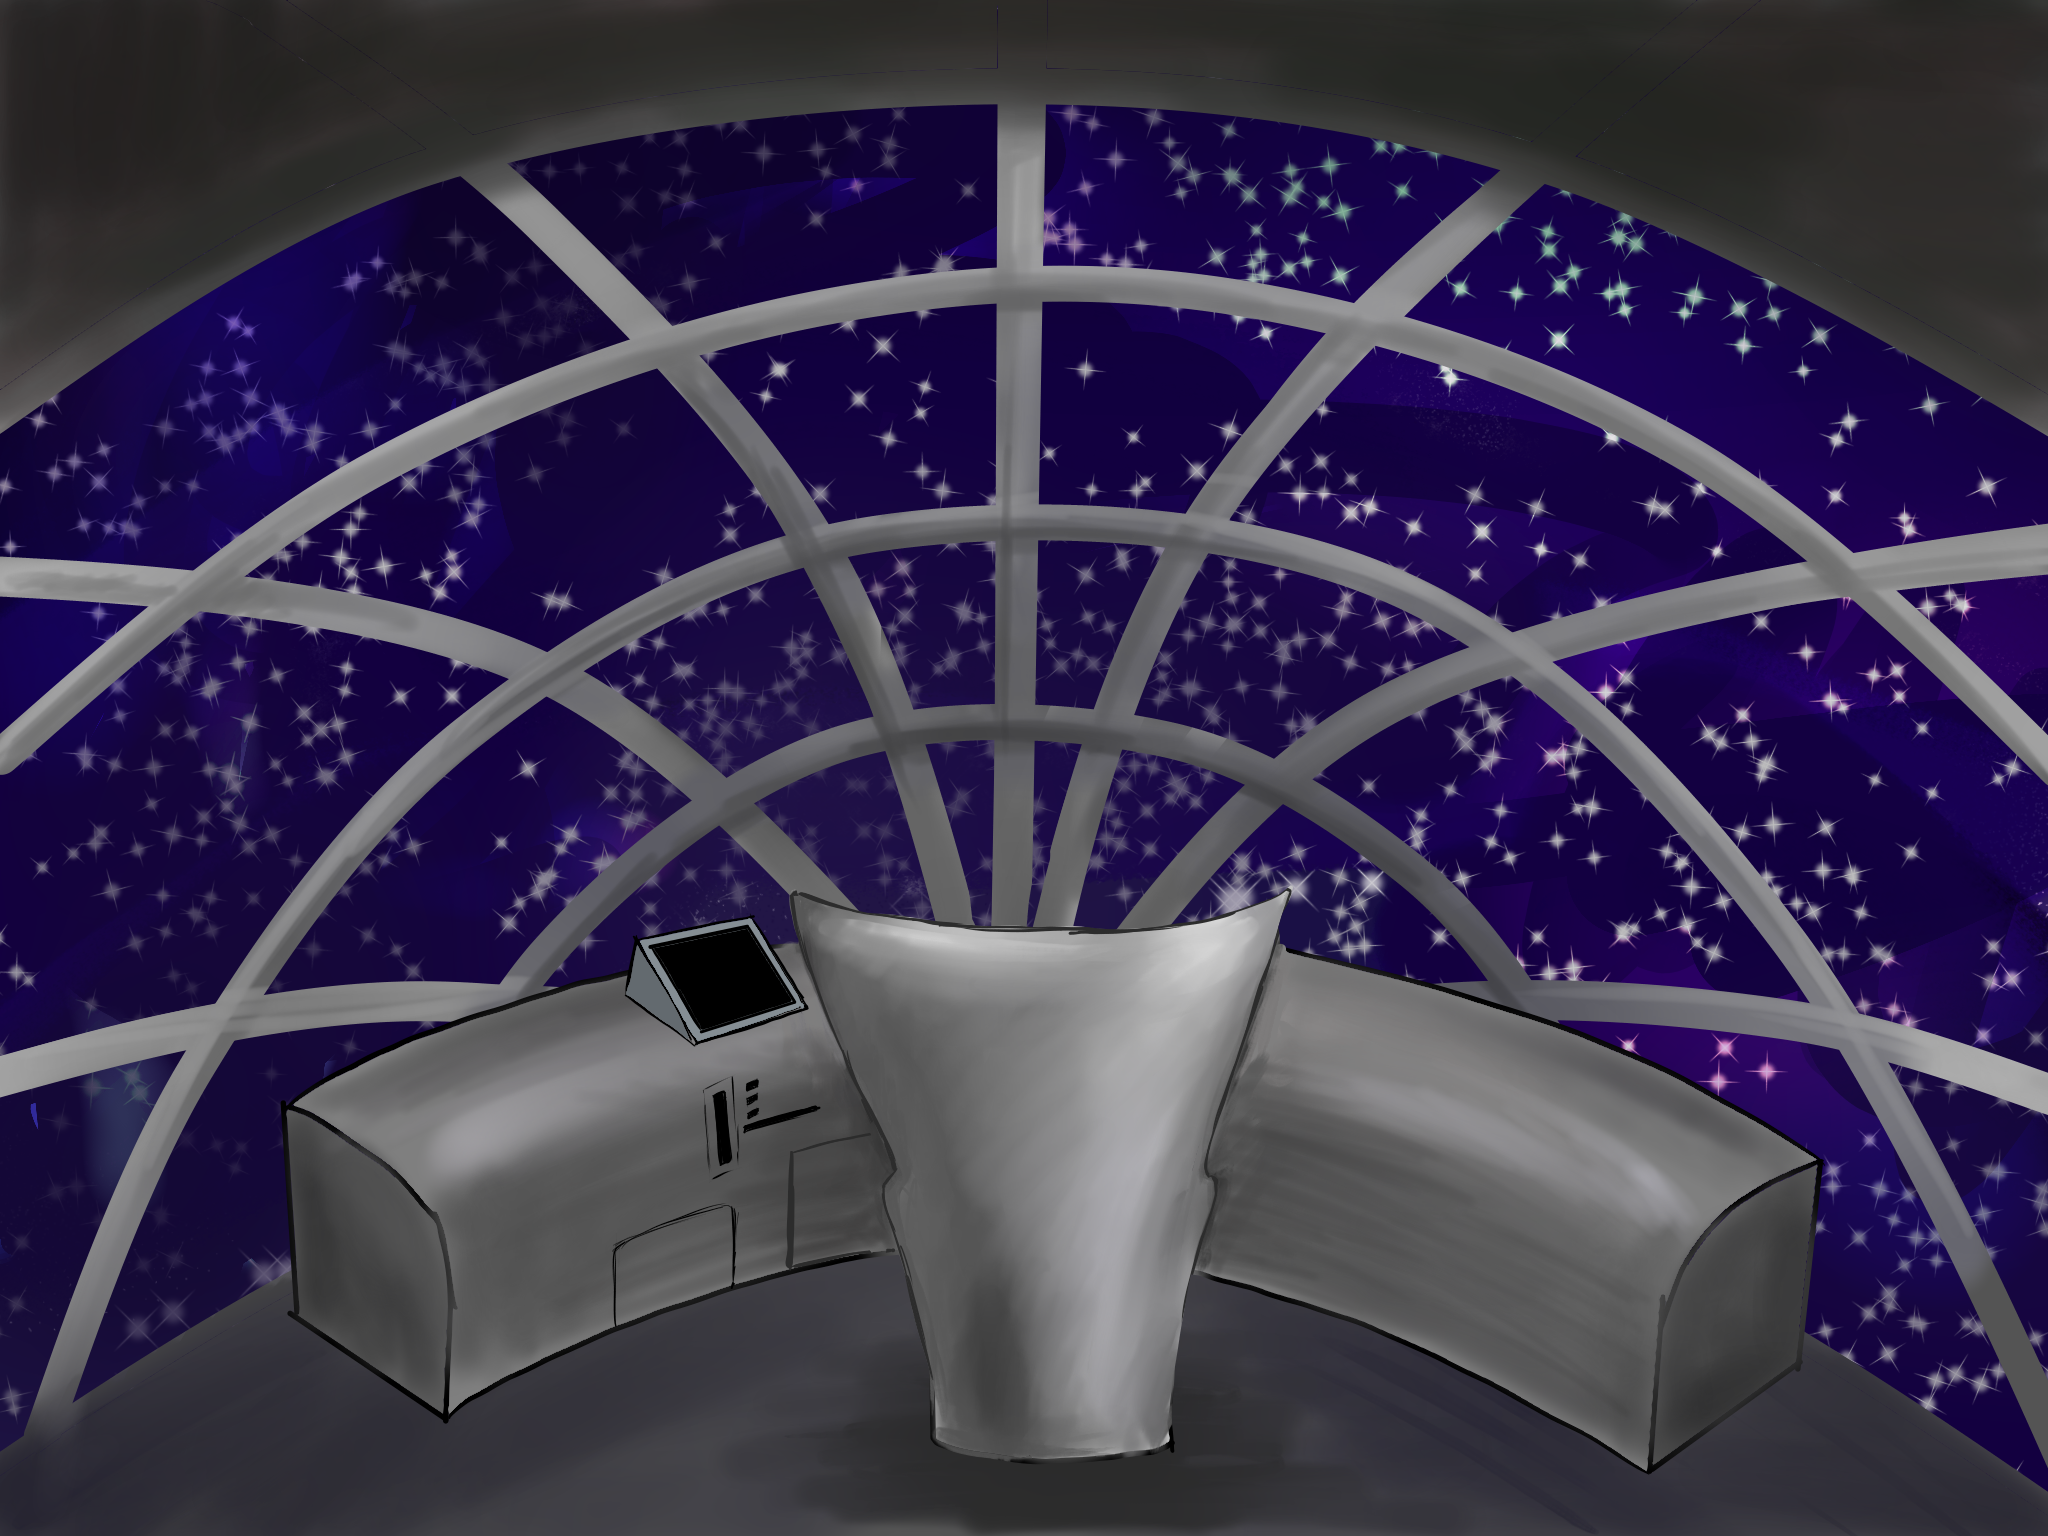
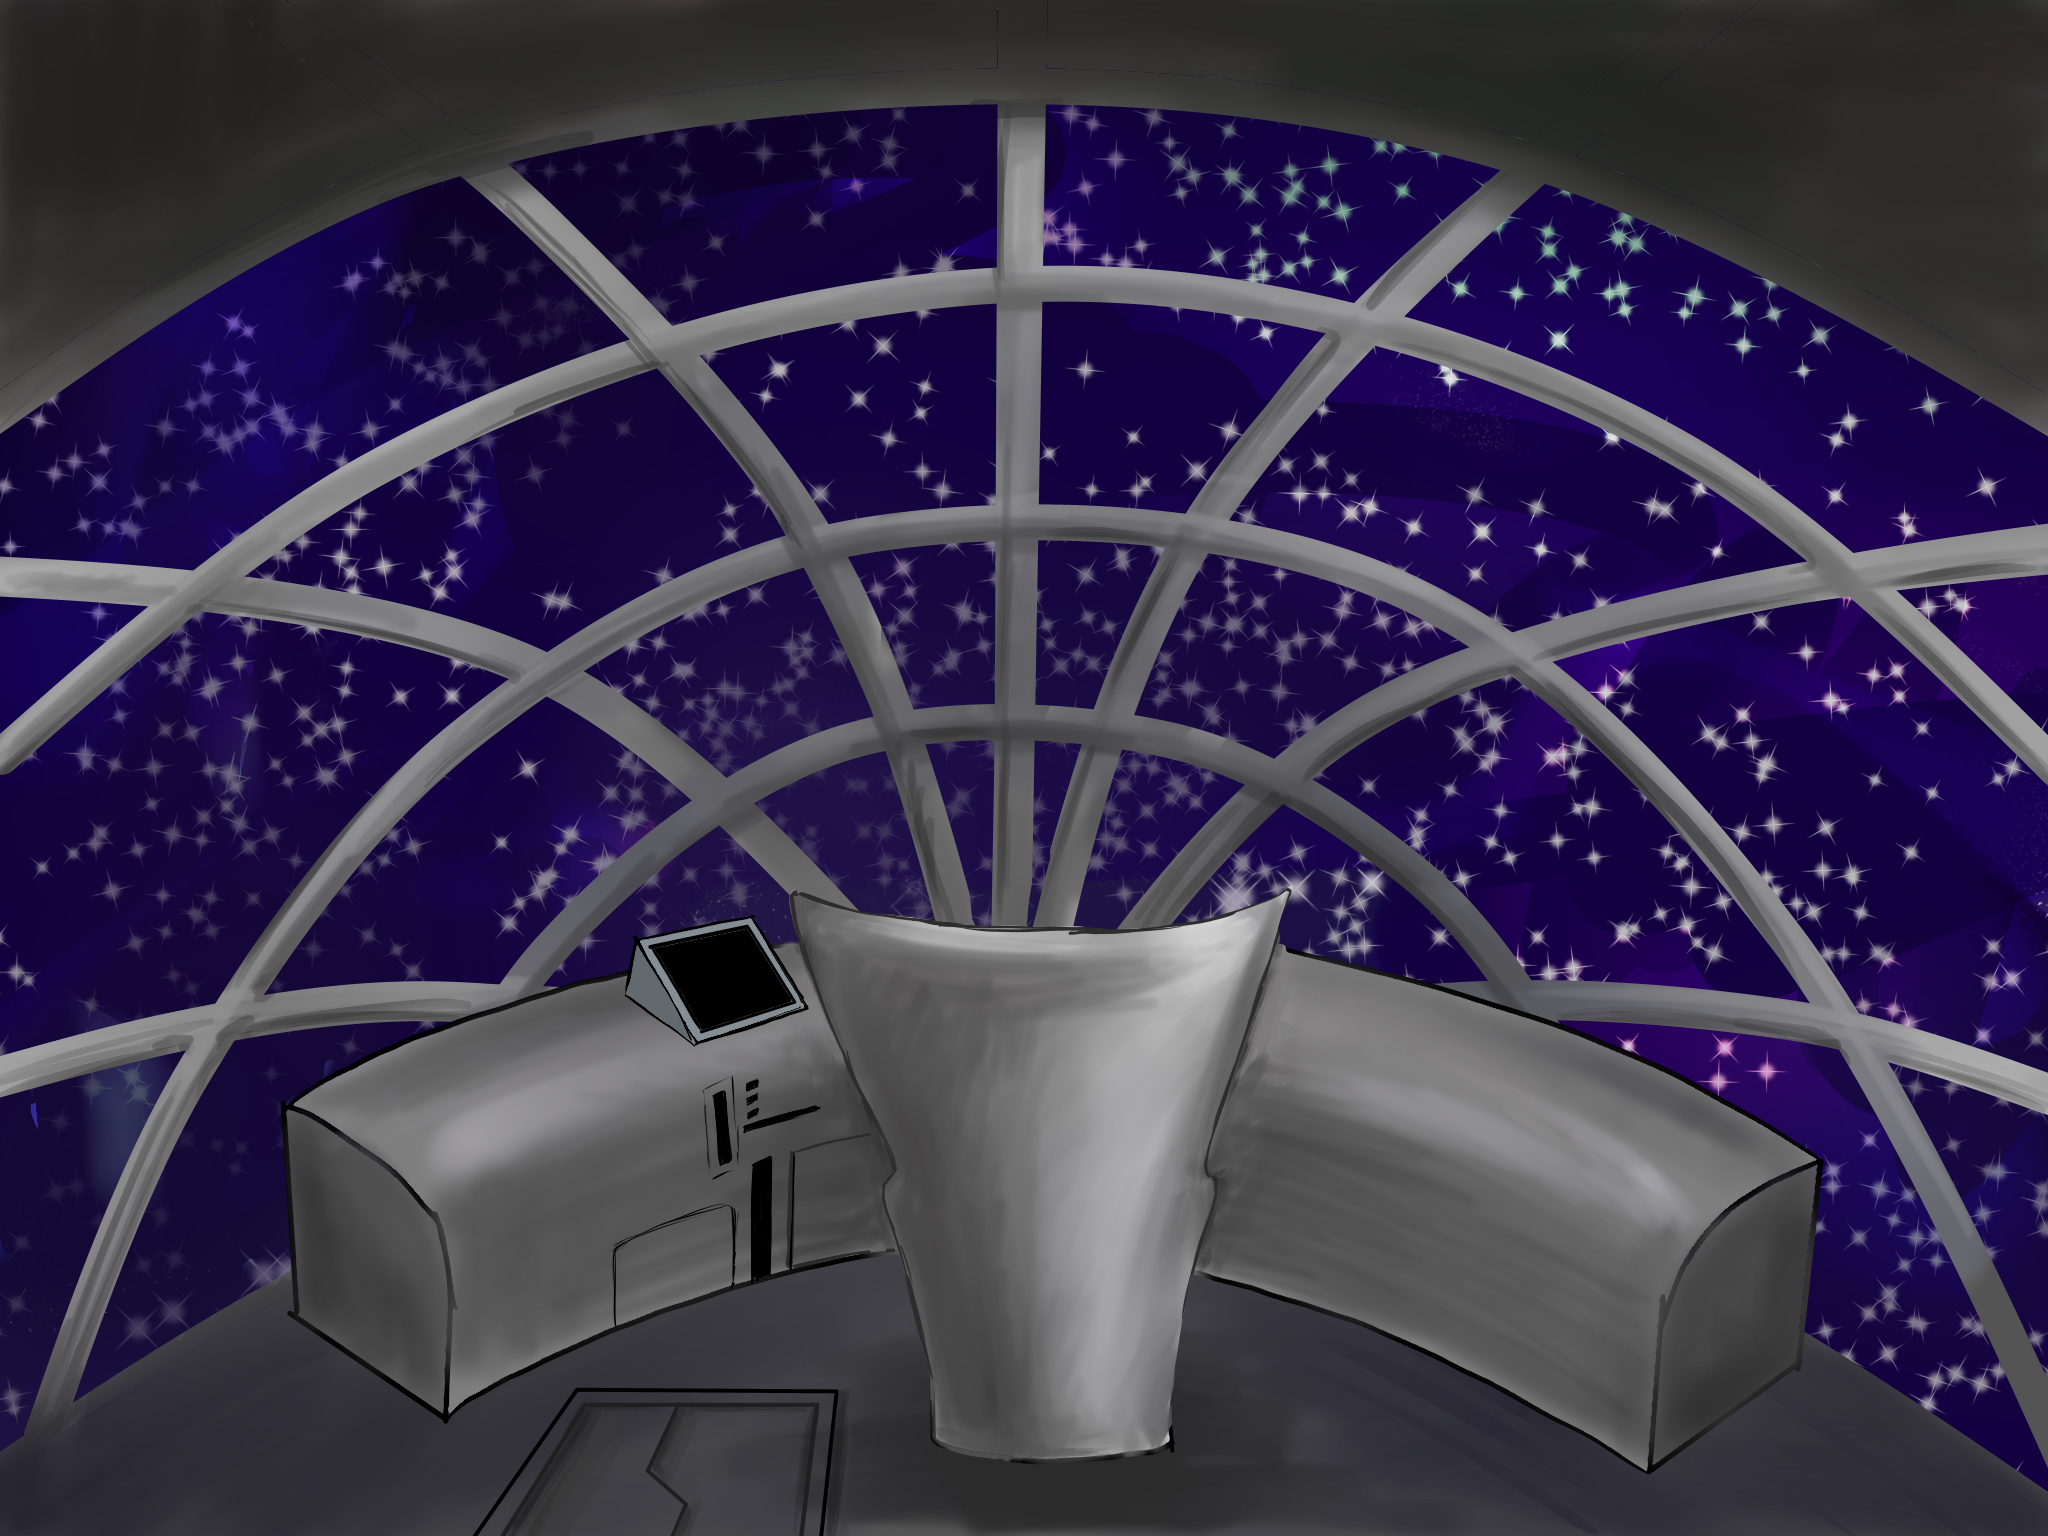
more images, and doors in better places

diff --git a/HNdraft.py b/HNdraft.py
@@ -188,7 +188,6 @@ class SpaceGameModel(object):
         # if self.get_clicked(pos) in self.doors:
         #     self.room = self.allrooms[self.doors.get(self.get_clicked(pos))]
 
-
 class PygameWindowView(object):
     def __init__(self, model, size):
         pygame.init()
@@ -248,42 +247,48 @@ def ratio_scale(filename, scl_factor):
 def mainz():
     size = (1152,864+36) #(2048, 1536)
     Scl = 1152/2048
-    unlock = Item('unlock', (650, 500),Scl)
+    unlock = Item('unlock', (700, 500),Scl)
     wrench = Item("wrench", (200,200), Scl,"Wrench.PNG", True)
     redB2 = Item('scene1', (550, 500), Scl, 'Rbutton1.PNG')
     greenB1 = Item("greenB1", (600, 500), Scl, "Gbutton1.PNG")
     blueB1 = Item('blueB1', (650, 500), Scl, 'Bbutton1.PNG')
-    box1 = Item('box1', (950, 300), Scl, 'Box01.PNG')
+    box1 = Item('box1', (970, 500), Scl, 'Box01.PNG')
     box2 = Item('box2', (600, 200), Scl, 'Box02.PNG')
     neato = Item('neato', (550, 450), Scl, 'Neato.PNG' )
     bugbag = Item('bugbag', (500, 200), Scl, 'InsectProt.PNG')
-    prangle = Item('prangle', (660, 65), Scl, 'Prangle.PNG', True)
-    bluebin = Item('bluebin', (800, 140), Scl, 'BlueBin.PNG')
+    prangle = Item('prangle', (460, 65), Scl, 'Prangle.PNG', True)
+    bluebin = Item('bluebin', (780, 310), Scl, 'BlueBin.PNG')
+    hdrive = Item('drive', (200, 600), Scl, 'HardDrive.PNG', True)
+    telescope = Item('tele', (400, 300), Scl, "Telescope.PNG")
     #doors
     redB1 = Item('scene1', (550, 500), Scl, 'Rbutton1.PNG')
     tobrid = Item('brido', (1050, 250), Scl)
-    tohall = Item('halldo',(250,500), Scl)
+    p_tobrid = Item('Ptobrid', (350, 600), Scl)
+    b_tohall = Item('Btohall', (330, 600), Scl)
+    c_tohall = Item('Ctohall', (0, 350), 1)
+    tohall = Item('halldo',(250,520), .85)
     h_tostor = Item('Hstordo',(550,520), Scl)
-    o_tostor = Item('Ostordo', (0, 250), Scl)
+    tostor = Item('stordo', (10, 250), 1.1)
     tocock = Item('cockdo',(750,300), Scl)
-    tocomm = Item('commdo',(550,260), Scl)
-    toobs = Item('obsdo',(600,300), Scl)
-    toair = Item('airdo',(500,100),.1)
-    totank = Item('tankdo',(600,700),.75)
+    tocomm = Item('commdo',(550,250), Scl)
+    o_tocomm = Item('Otocomm', (1050, 600),Scl)
+    toobs = Item('obsdo',(250,0), .8)
+    toair = Item('airdo',(1070,330),Scl)
+    totank = Item('tankdo',(800,100),Scl)
 
-    hall1 = Room([wrench, tostor,tocomm, tobrid], Backdrop("Hallway1.PNG", size))
+    hall1 = Room([wrench, h_tostor,tocomm, tobrid], Backdrop("Hallway1.PNG", size))
     startRoom = Room([greenB1, redB1, blueB1], Backdrop("StartRm.jpg", size))
-    bridge = Room([greenB1, redB2, blueB1, tohall, tocock], Backdrop("Bridge.PNG", size))
+    bridge = Room([greenB1, redB2, blueB1, b_tohall, tocock], Backdrop("Bridge.PNG", size))
     StorRm = Room([box1, box2, neato, bluebin, bugbag, prangle,tohall, toair, totank], Backdrop('StorRoom.PNG', size))
-    cockpit = Room([redB1],Backdrop("PilotBay.PNG",size))
-    obser = Room([tocomm],Backdrop("Observator.PNG", size))
-    comms = Room([tohall,toobs],Backdrop("CommsRoom.PNG", size))
+    cockpit = Room([p_tobrid],Backdrop("PilotBay.PNG",size))
+    obser = Room([o_tocomm, telescope],Backdrop("Observator.PNG", size))
+    comms = Room([c_tohall,toobs, hdrive],Backdrop("CommsRoom.PNG", size))
     oxytank = Room([tostor, unlock], Backdrop("O2tank.PNG", size))
     airlock = Room([tostor], Backdrop("Airlock.PNG", size))
 
     rooms = {"hallway":hall1, 'startRoom':startRoom, 'bridge':bridge, 'storage':StorRm, "cockpit":cockpit,"commroom":comms,"observation":obser,"tank":oxytank,"lock":airlock}
-    doors ={'brido':'bridge', "scene1":"bridge","halldo":"hallway", "Ostordo":"storage", "Hstordo":"storage","cockdo":"cockpit",
-            "commdo":"commroom","obsdo":"observation","airdo":"lock","tankdo":"tank"}
+    doors ={'brido':'bridge', "scene1":"bridge","halldo":"hallway", "stordo":"storage", "Hstordo":"storage","cockdo":"cockpit", 'Btohall':"hallway",
+            "commdo":"commroom","obsdo":"observation","airdo":"lock","tankdo":"tank", "Ptobrid":"bridge", 'Otocomm':'commroom', 'Ctohall':'hallway'}
     puzzles ={"unlock":"wrench"}
 
     Modl = SpaceGameModel(size, rooms, doors,puzzles)
